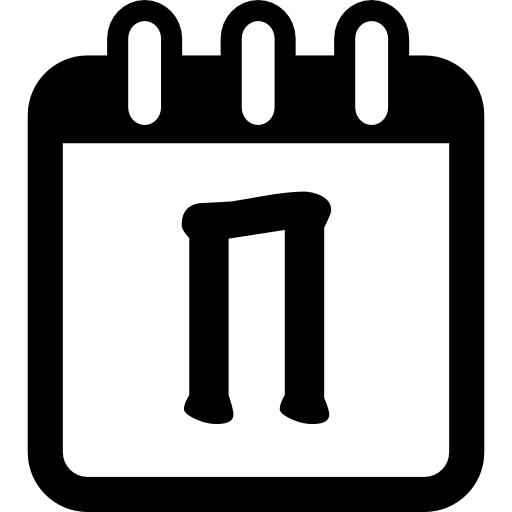
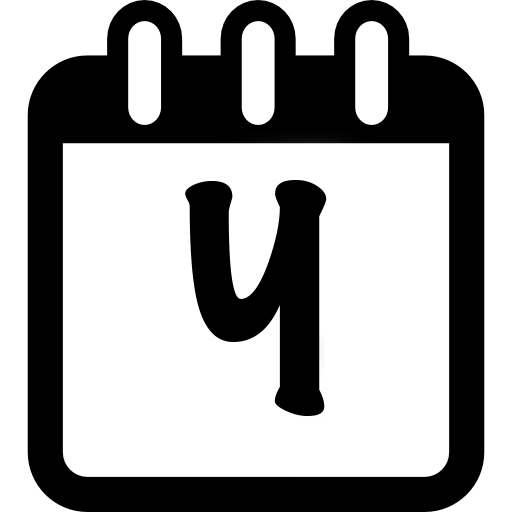
парная -> непарная

Changed region(s): [[0.3438, 0.3438, 0.6562, 0.8438]]

diff --git a/src/components/CloudNav.jsx b/src/components/CloudNav.jsx
@@ -15,7 +15,7 @@ export default function CloudNav({ items, dayOfWeek, parity, group }) {
       <nav className='cloud w-28 lg:w-48 lg:h-48 flex flex-col items-center'>
         <img src={cloudImg} alt='' />
         <span className='absolute text-center leading-tight font-bold text-lite-white text-base lg:text-3xl mt-16 lg:mt-24'>
-          {parity === 'even' ? 'Парная' : 'Непарная'}
+          {parity === 'even' ? 'Четная' : 'Нечетная'}
         </span>
 
         <span className='week-day -mt-4 lg:-mt-6 mb-2 text-lite-blue font-bold'>

diff --git a/src/pages/calendar-admin.js b/src/pages/calendar-admin.js
@@ -110,7 +110,7 @@ export default function CalendarAdmin({ location }) {
           <h1 className='pt-1 mx-6 capitalize font-medium text-2xl font-bold lg:text-3xl flex items-center text-white'>
             <span className='hidden lg:block'>Календарь&nbsp;</span>
             <span>
-              {parity === 'even' ? 'Парная' : 'Непарная'}
+              {parity === 'even' ? 'Четная' : 'Нечетная'}
               {` неделя ${group.toUpperCase()}`}
             </span>
           </h1>
